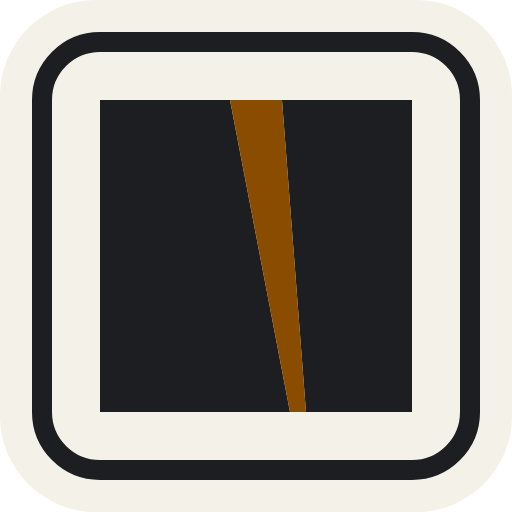
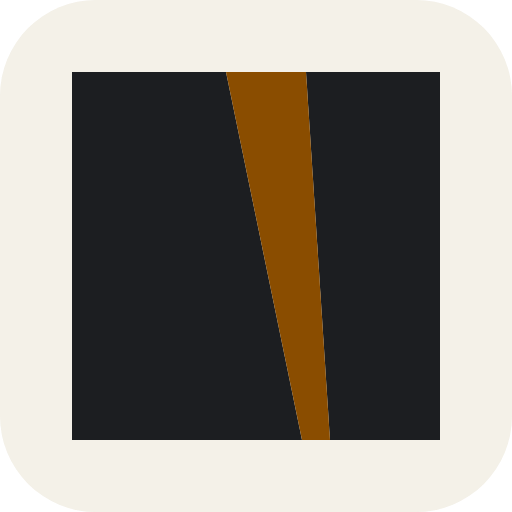
feat: the mark, pushed to its final form
The frame is gone: the two ink masses are the window's architecture
themselves, and the amber gap doubles in presence, wide at the top of
time and nearly closed at the bottom. Reads clearly at 64, survives
32, hints amber even at 16. The README opens with it, centered above
the name.

diff --git a/src/ui/screens/Title.tsx b/src/ui/screens/Title.tsx
@@ -20,14 +20,14 @@ export function Title() {
       <div className="title-card">
         <svg
           className="title-mark"
-          viewBox="80 80 352 352"
+          viewBox="72 72 368 368"
           width="56"
           height="56"
           aria-hidden="true"
         >
-          <path d="M100 100 H 230 L 290 412 H 100 Z" fill="var(--ink)" />
-          <path d="M412 100 H 282 L 306 412 H 412 Z" fill="var(--ink)" />
-          <path d="M230 100 H 282 L 306 412 H 290 Z" fill="var(--accent)" />
+          <path d="M72 72 H 226 L 302 440 H 72 Z" fill="var(--ink)" />
+          <path d="M440 72 H 306 L 330 440 H 440 Z" fill="var(--ink)" />
+          <path d="M226 72 H 306 L 330 440 H 302 Z" fill="var(--accent)" />
         </svg>
         <p className="title-kicker">{t('app.workingTitleNote')}</p>
         <h1 className="title-name">{t('app.title')}</h1>